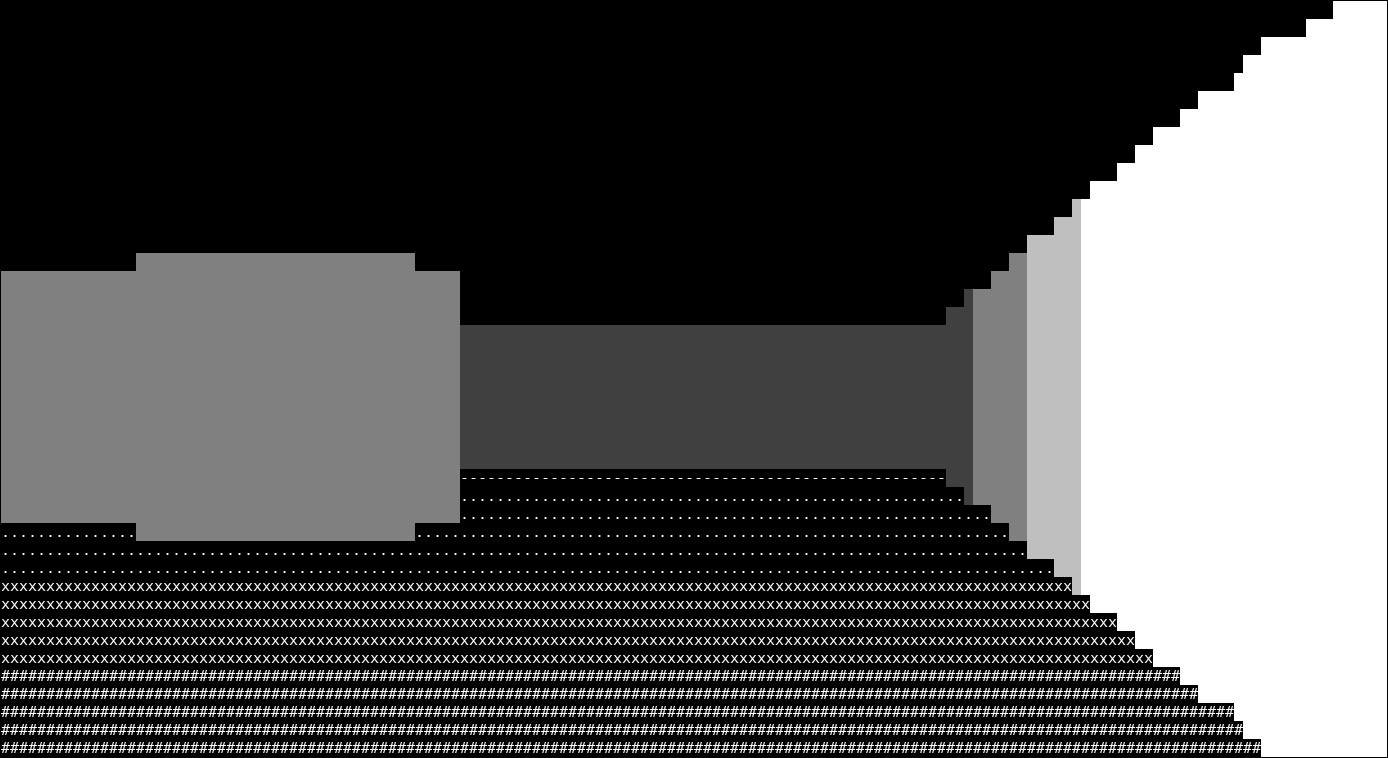
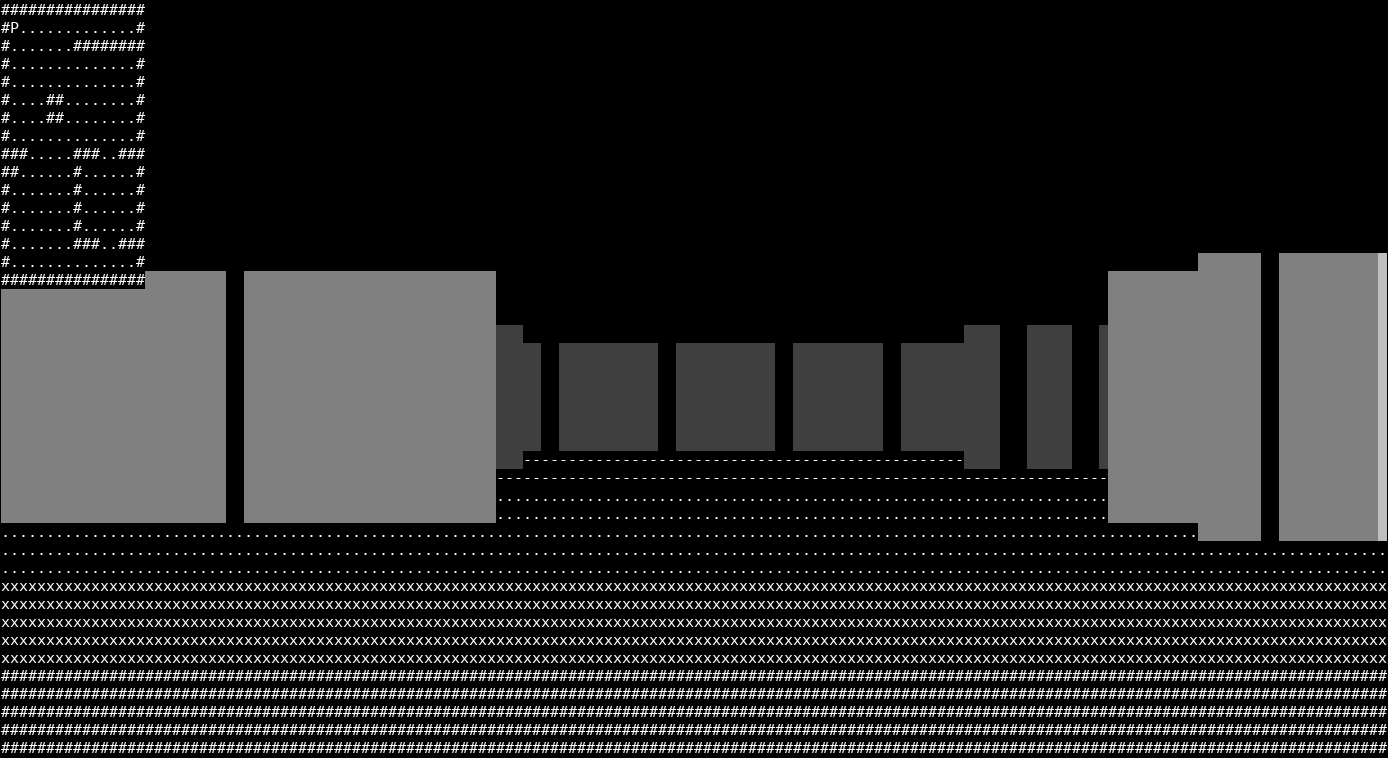
Add cell boundary highlighting, mini map and change map

Changed region(s): [[0.0, 0.0, 1.0, 1.0], [0.0, 0.0, 0.1239, 0.091], [0.031, 0.1214, 0.062, 0.1517]]

diff --git a/src/render.c b/src/render.c
@@ -9,7 +9,6 @@
 #include <math.h>
 #include <stdbool.h>
 #include <wchar.h>
-#include <stdio.h>
 #include <stdlib.h>
 
 #include "firstPerson.h"
@@ -28,11 +27,16 @@ refreshScreen (void)
   int      x, y;
   int      testX, testY;
   int      ceilingHeight, floorHeight;
+  int      boundaryTestX, boundaryTestY;
+  int      boundaryIndex;
   bool     hitWall, hitBoundary;
-  float    distance, distanceToWall;
+  float    distanceToFloor, distanceToWall;
+  float    distance, dotProduct;
   float    eyeX, eyeY;
   float    rayAngle;
+  float    vX, vY;
   wchar_t  shade;
+  struct   bTest boundaryTest[N_BOUNDARY_TESTS];
 
   int      screenWidth     = gameConfig.screenWidth;
   int      screenHeight    = gameConfig.screenHeight;
@@ -44,6 +48,7 @@ refreshScreen (void)
   float    playerX         = gameConfig.playerX;
   float    playerY         = gameConfig.playerY;
   float    playerDirection = gameConfig.playerDirection;
+  float    boundLimit      = 0.005;
   char    *map             = gameConfig.gameMap.map;
   wchar_t *screen          = gameConfig.screen;
   WINDOW  *window          = gameConfig.window;
@@ -74,11 +79,37 @@ refreshScreen (void)
       // The Ray is in bounds and has hit a wall
       else
       {
-
+        // Now test to see if the Ray has hit a  boundary of a block
         if (map[testY * mapWidth + testX] == '#')
         {
           hitWall = true;
-          // TODO: test for wall boundaries
+
+          // To find boundaries, cast a ray to each corner of a block and
+          // measure the angle between this ray and the player's ray
+          boundaryIndex = 0;
+          
+          for (boundaryTestX = 0; boundaryTestX < 2; ++boundaryTestX)
+          {
+            for (boundaryTestY = 0; boundaryTestY < 2; ++boundaryTestY)
+            {
+              vY         = (float) testY + boundaryTestY - playerY;
+              vX         = (float) testX + boundaryTestX - playerX;
+              distance   = sqrt (vX * vX + vY * vY);
+              dotProduct = (eyeX * vX / distance) + (eyeY * vY / distance);
+              boundaryTest[boundaryIndex].distance   = distance;
+              boundaryTest[boundaryIndex].dotProduct = dotProduct;
+              boundaryIndex++;
+            }
+
+            // Sort from closest to farthest
+            sortBoundaryTest (boundaryTest);
+
+            // If the angle is less than some predefined limit, the ray is at
+            // a boundary. Note, the player can never see all four corners
+            if (acos (boundaryTest[0].dotProduct) < boundLimit) hitBoundary = true;
+            if (acos (boundaryTest[1].dotProduct) < boundLimit) hitBoundary = true;
+            if (acos (boundaryTest[2].dotProduct) < boundLimit) hitBoundary = true;
+          }                  
         }
       }
     }
@@ -87,11 +118,11 @@ refreshScreen (void)
     if      (distanceToWall <= renderDepth / 4.0) shade = 0x2588;
     else if (distanceToWall <= renderDepth / 3.0) shade = 0x2593;
     else if (distanceToWall <= renderDepth / 2.0) shade = 0x2592;
-    else if (distanceToWall <= renderDepth) shade = 0x2591;
-    else shade = ' ';
+    else if (distanceToWall <= renderDepth)       shade = 0x2591;
+    else                                          shade = ' ';
 
     // Make wall boundaries stand out
-    if (hitBoundary) shade = ' ';
+    if (hitBoundary)                              shade = ' ';
 
     // Calculate the distance to the ceiling and floor
     ceilingHeight = screenHeight / 2.0 - screenHeight / distanceToWall;
@@ -114,18 +145,31 @@ refreshScreen (void)
       // Draw the floor and shade depending on distance
       else
       {
-        distance = 1.0 - ((float) y - screenHeight / 2.0) / (screenHeight / 2.0);
-        if      (distance < 0.25) shade = '#';
-        else if (distance < 0.50) shade = 'x';
-        else if (distance < 0.75) shade = '.';
-        else if (distance < 0.90) shade = '-';
-        else shade = ' ';
+        distanceToFloor = 1.0 - ((float) y - screenHeight / 2.0) / (screenHeight / 2.0);
+        if      (distanceToFloor < 0.25) shade = '#';
+        else if (distanceToFloor < 0.50) shade = 'x';
+        else if (distanceToFloor < 0.75) shade = '.';
+        else if (distanceToFloor < 0.90) shade = '-';
+        else                             shade = ' ';
         screen[y * screenWidth + x] = shade;
         mvwprintw (window, y, x, "%lc", shade);
       }
     }
   }
 
+  // Add map to the top right of the screen 
+  for (x = 0; x < mapWidth; ++x)
+  {
+    for (y = 0; y < mapHeight; ++y)
+    {
+      mvwprintw (window, y, x, "%c", map[y * mapWidth + x]);
+    }
+  }
+
+  // Add P on the map to show where the player is
+  mvwprintw (window, (int) playerY, (int) playerX, "P");
+
+  // Refresh the NCurses window and NULL terminate the screen buffer
   wrefresh (window);
   screen[screenWidth * screenHeight] = '\0';
   gameConfig.screen = screen;

diff --git a/src/utilities.c b/src/utilities.c
@@ -8,36 +8,40 @@
  *
  * ************************************************************************** */
 
-#include <stdio.h>
 #include <stdlib.h>
 #include <errno.h>
-#include <unistd.h>
 
 #include "firstPerson.h"
 
-/** **************************************************************************
+/* ************************************************************************** */
+/** 
+ * @brief
  *
- *  @brief              Refresh the terminal screen
+ * @details
  *
- *  @return             void
- *
- *  @details
- *
- *  Resets the terminal display by clearing everything and repositioning the
- *  cursor or something. Can't quite remember what it's doing exactly.
- *
+ * This is an implementation of Bubble sort. Since N_BOUNDARY_TESTS = 4, 
+ * performance should not be a major problem (I think).
+ * 
  * ************************************************************************** */
 
 void
-utilResetDisplay (void)
+sortBoundaryTest (struct bTest *boundaryTest)
 {
-  /*
-   * \x1b is the escape character
-   * \x1b[ is an escape sequence
-   */
+  int     i, j;
+  struct  bTest temp;
 
-  write (STDOUT_FILENO, "\x1b[2J", 4);   // erase screen
-  write (STDOUT_FILENO, "\x1b[H", 3);    // reposition the cursor
+  for (i = 0; i < N_BOUNDARY_TESTS - 1; ++i)
+  {
+    for (j = 0; j < N_BOUNDARY_TESTS - i - 1; ++j)
+    {
+      if (boundaryTest[j].distance > boundaryTest[j + 1].distance)
+      {
+        temp = boundaryTest[j];
+        boundaryTest[j] = boundaryTest[j + 1];
+        boundaryTest[j + 1] = temp;
+      }
+    }
+  }
 }
 
 /** **************************************************************************
@@ -58,7 +62,7 @@ utilResetDisplay (void)
 void
 utilExit (char *s)
 {
-  utilResetDisplay ();
+  terminalRevert ();
   perror (s);
   exit (errno);
 }

diff --git a/src/map.c b/src/map.c
@@ -26,19 +26,19 @@ mapInit (void)
   struct  gameMap map = MAP_INIT;
   char   *theMap      =
     "################"
-    "#...........#..#"
-    "#...........#..#"
-    "#......#....#..#"
-    "#......#....#..#"
-    "#......#....#..#"
-    "#......##..##..#"
-    "#...####.......#"
-    "#......#.......#"
-    "#......#.......#"
-    "#......#####...#"
-    "#........#.....#"
-    "#........#.....#"
-    "#........#.....#"
+    "#..............#"
+    "#.......########"
+    "#..............#"
+    "#..............#"
+    "#....##........#"
+    "#....##........#"
+    "#..............#"
+    "###.....###..###"
+    "##......#......#"
+    "#.......#......#"
+    "#.......#......#"
+    "#.......#......#"
+    "#.......###..###"
     "#..............#"
     "################";
 

diff --git a/src/functions.h b/src/functions.h
@@ -1,13 +1,16 @@
-/* Terminal.c */
-void terminalInit (void);
-void terminalRevert (void);
-void terminalUpdateSize (int sig);
-/* Utilities.c */
-void utilResetDisplay (void);
-void utilExit (char *s);
-/* Map.c */
-void mapInit (void);
-/* Input.c */
-void controlPlayer (float TimeDifference);
-/* Render.c */
-void refreshScreen (void);
+/* terminal.c */
+void terminalInit(void);
+void terminalRevert(void);
+void terminalUpdateSize(int sig);
+/* utilities.c */
+void sortBoundaryTest(struct bTest *boundaryTest);
+void utilExit(char *s);
+/* map.c */
+void mapInit(void);
+/* input.c */
+void controlPlayer(float timeDifference);
+/* render.c */
+void refreshScreen(void);
+/* main.c */
+void gameInit(void);
+int main(void);

diff --git a/src/firstPerson.h b/src/firstPerson.h
@@ -14,6 +14,7 @@
 
 #define FIXED_MAP_WIDTH  16
 #define FIXED_MAP_HEIGHT 16
+#define MAP_INIT {0, 0, 0, NULL}
 
 struct gameMap
 {
@@ -23,7 +24,17 @@ struct gameMap
 	char    *map;                       // The map stored as a 1D whcar_t array
 };
 
-#define MAP_INIT {0, 0, 0, NULL}
+/* ************************************************************************** 
+ * Boundary testing structure
+ * ************************************************************************** */
+
+#define N_BOUNDARY_TESTS 4
+
+struct bTest 
+{
+  float distance;
+  float dotProduct;
+};
 
 /* ************************************************************************** 
  * Global configuration structure
